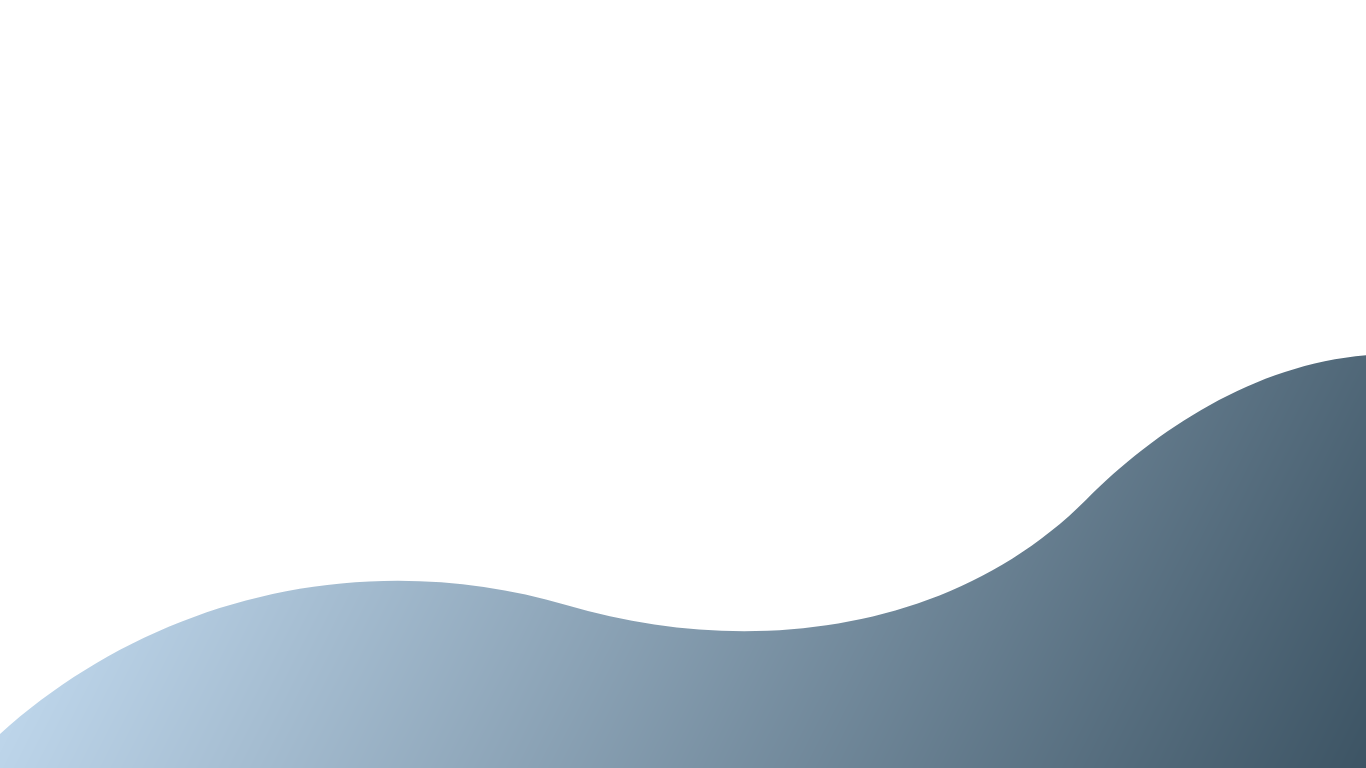
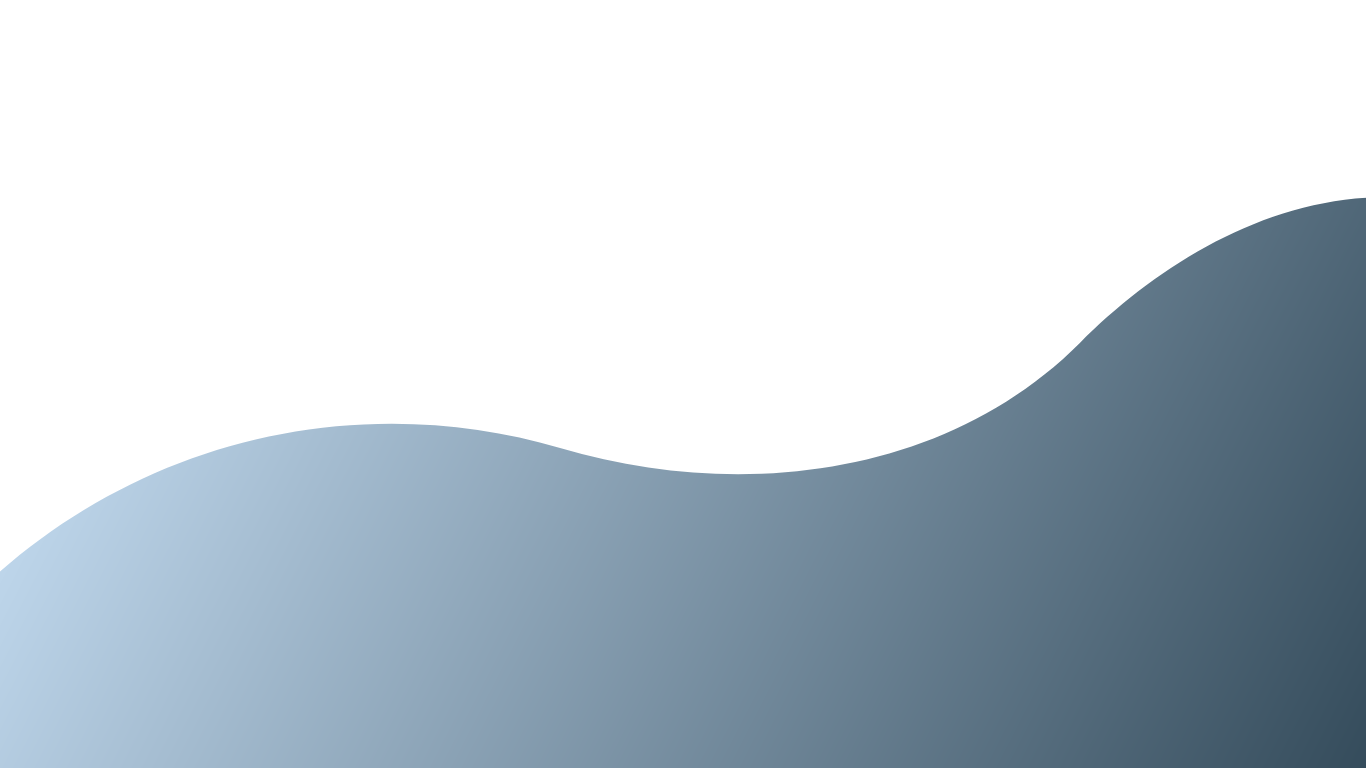
new background images and updated login/signup styling

Changed region(s): [[0.0, 0.25, 1.0, 0.9688]]

diff --git a/client/src/pages/signup_login.css b/client/src/pages/signup_login.css
@@ -1,5 +1,5 @@
 .signup-main {
-  background-image: url(./images/right-wave-blue.png);
+  background-image: url(./images/right-blue-blue.png);
   background-size: cover;
   background-position: center;
   height: 100%;
@@ -7,7 +7,7 @@
 }
 
 .login-main {
-  background-image: url(./images/right-wave-blue.png);
+  background-image: url(./images/left-green-blue.png);
   background-size: cover;
   background-position: center;
   height: 100%;
@@ -84,16 +84,21 @@
   color: var(--green);
 }
 
-.login-link,
 .signup-link {
   color: var(--white);
 }
 
+.login-link {
+  color: var(--green);
+}
+
 /* Error message */
-.signup div,
-.login div {
+.login-form p,
+.signup-form p {
   margin-top: 10px;
-  color: var(--white);
   font-weight: bold;
   text-align: center;
+  color: var(--dark-blue);
+  height: 10px;
+  padding: 10px;
 }

diff --git a/client/src/pages/Signup.js b/client/src/pages/Signup.js
@@ -72,7 +72,7 @@ const Signup = () => {
             onChange={handleChange}
           />
           <button type="submit">Submit</button>
-          {error && <div>Sign up failed</div>}
+          {error && <p>Sign up failed</p>}
         </form>
         <p>
           Already have an account?{' '}

diff --git a/client/public/index.html b/client/public/index.html
@@ -33,7 +33,7 @@
   </head>
   <body>
     <noscript>You need to enable JavaScript to run this app.</noscript>
-    <div id="root"></div>
+    <div class="root" id="root"></div>
     <!--
       This HTML file is a template.
       If you open it directly in the browser, you will see an empty page.

diff --git a/client/src/pages/Login.js b/client/src/pages/Login.js
@@ -63,7 +63,7 @@ const Login = () => {
             onChange={handleChange}
           />
           <button type="submit">Submit</button>
-          {error && <div>Login failed</div>}
+          {error && <p>Login failed</p>}
         </form>
         <p>
           Don't have an account?{' '}
